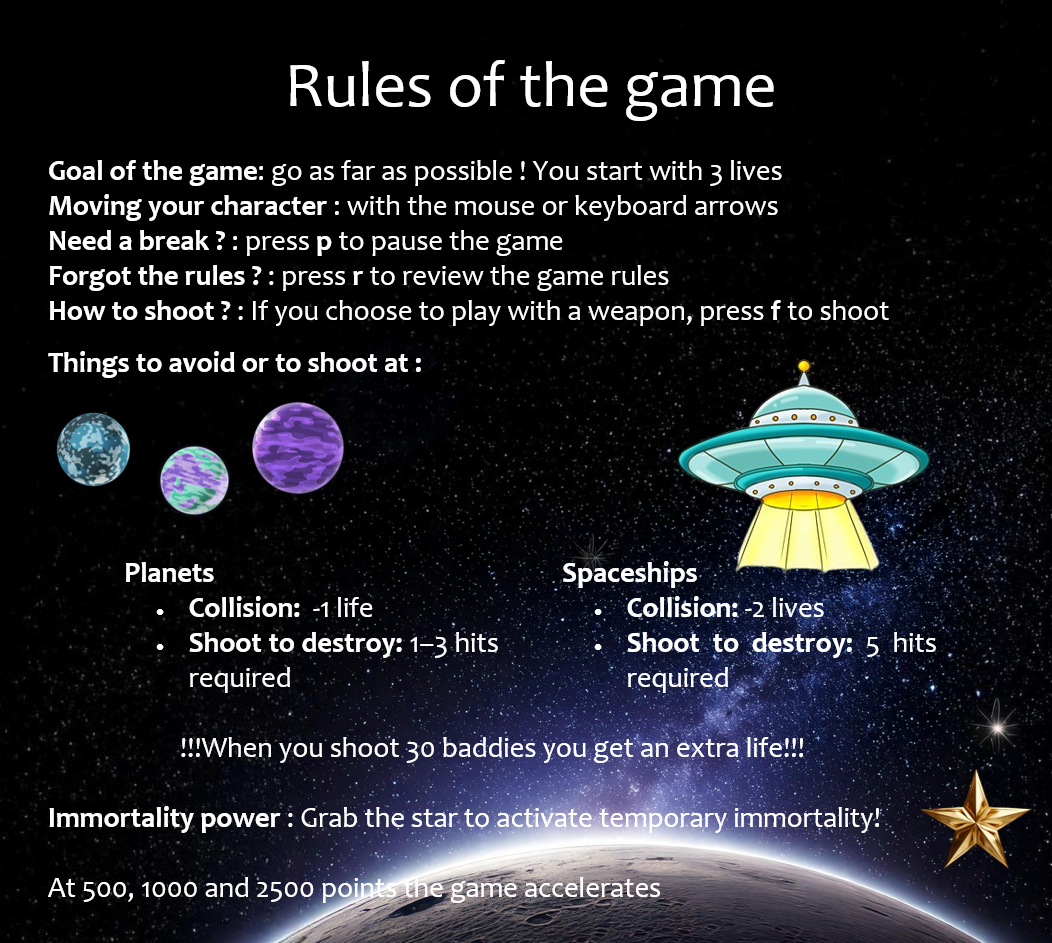
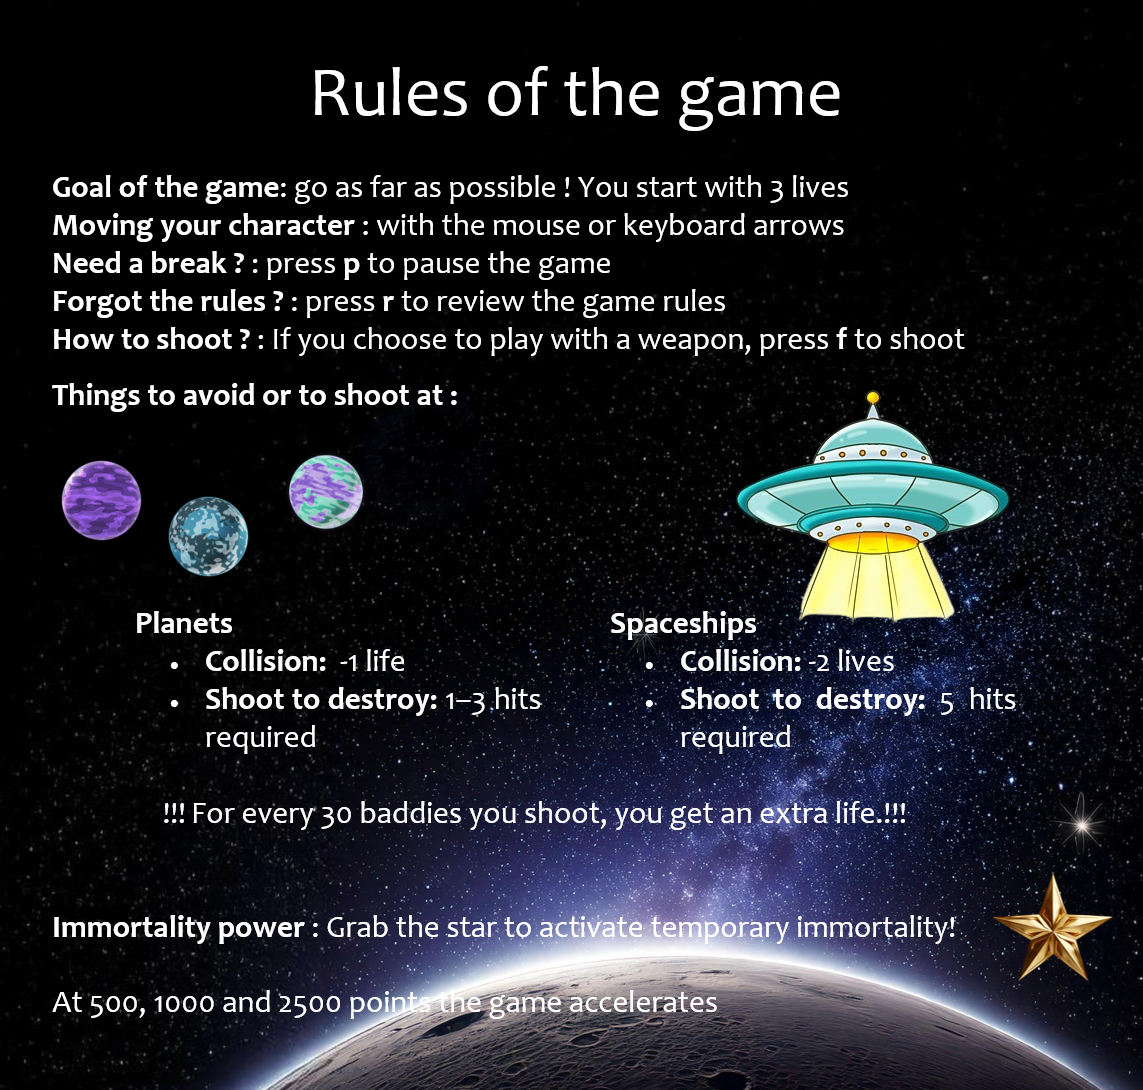
12

Changed region(s): [[0.0304, 0.1538, 1.0, 1.0], [0.2738, 0.0615, 0.73, 0.123], [0.9734, 0.6766, 1.0, 0.7073]]

diff --git a/#dodger avec armes.py b/#dodger avec armes.py
@@ -1,5 +1,11 @@
-#Welcome to our game Cosmic Run!
-#Group 6
+#  __          __  _                            _           _____                    _        _____             
+#  \ \        / / | |                          | |         / ____|                  (_)      |  __ \            
+#   \ \  /\  / /__| | ___ ___  _ __ ___   ___  | |_ ___   | |     ___  ___ _ __ ___  _  ___  | |__) |   _ _ __  
+#    \ \/  \/ / _ \ |/ __/ _ \| '_ ` _ \ / _ \ | __/ _ \  | |    / _ \/ __| '_ ` _ \| |/ __| |  _  / | | | '_ \ 
+#     \  /\  /  __/ | (_| (_) | | | | | |  __/ | || (_) | | |___| (_) \__ \ | | | | | | (__  | | \ \ |_| | | | |
+#      \/  \/ \___|_|\___\___/|_| |_| |_|\___|  \__\___/   \_____\___/|___/_| |_| |_|_|\___| |_|  \_\__,_|_| |_|
+                                                                                                              
+                                                                                                              
 
 # Imports
 import pygame                                                 # Import the Pygame library
@@ -136,7 +142,7 @@ pygame.init()                                                                   
 pygame.mixer.init()                                                                                                            # Initialize the mixer module
 mainClock = pygame.time.Clock()                                                                                                # Create a clock object to control the frame rate
 windowSurface = pygame.display.set_mode((Constants.WINDOWWIDTH, Constants.WINDOWHEIGHT))                                       # Set the window size
-pygame.display.set_caption('OurGame')                                                                                          # Set the window caption
+pygame.display.set_caption('Cosmic Run')                                                                                          # Set the window caption
 
 
 
@@ -720,7 +726,7 @@ class Game:
             if is_destroyed:                                                                      # If the baddie is destroyed
                 self.nb_baddies_destroyed += 1                                                    # Increment the number of baddies destroyed
                 Sounds.baddie_shoot_sound.play()                                                  # Play the baddie shoot sound
-                if self.nb_baddies_destroyed == 30:                                               # If 30 baddies are destroyed
+                if self.nb_baddies_destroyed %30 == 0:                                            # Every 30 baddies destroyed
                     self.lives += 1                                                               # Add a life when 30 baddies are destroyed
 
     def show_game_over_screen(self):        
@@ -788,7 +794,7 @@ class Player:
         self.moveDown = False                                        # Initialize the move down flag
         self.mask = pygame.mask.from_surface(self.image)             # Create a mask for pixel-perfect collision detection
         self.last_shot_time = 0                                      # Track the last time the player shot
-        self.shoot_cooldown = 350                                    # Cooldown period in milliseconds for shooting
+        self.shoot_cooldown = 350                                    # Cooldown period in milliseconds for shooting (you can shoot every 350 milliseconds)
 
     def update_position(self):
         if self.moveUp and self.rect.top > 0:   
@@ -897,3 +903,12 @@ class Spaceship(Baddie):
 if __name__ == '__main__':  # If the script is run directly
     game = Game()           # Create a new game instance
     game.run()              # Run the game
+
+# _    _       _                        _____        __ _                                _           _                         _____                            __  
+#| |  | |     (_)                      / ____|      / _| |                              | |         (_)                       / ____|                          / /  
+#| |  | |_ __  _ _ __   ___   ______  | (___   ___ | |_| |___      ____ _ _ __ ___    __| | ___  ___ _  __ _ _ __    ______  | |  __ _ __ ___  _   _ _ __     / /_  
+#| |  | | '_ \| | '_ \ / _ \ |______|  \___ \ / _ \|  _| __\ \ /\ / / _` | '__/ _ \  / _` |/ _ \/ __| |/ _` | '_ \  |______| | | |_ | '__/ _ \| | | | '_ \   | '_ \ 
+#| |__| | | | | | | | |  __/           ____) | (_) | | | |_ \ V  V / (_| | | |  __/ | (_| |  __/\__ \ | (_| | | | |          | |__| | | | (_) | |_| | |_) |  | (_) |
+# \____/|_| |_|_|_| |_|\___|          |_____/ \___/|_|  \__| \_/\_/ \__,_|_|  \___|  \__,_|\___||___/_|\__, |_| |_|           \_____|_|  \___/ \__,_| .__/    \___/ 
+#                                                                                                       __/ |                                       | |                 
+#                                                                                                      |___/                                        |_|    
